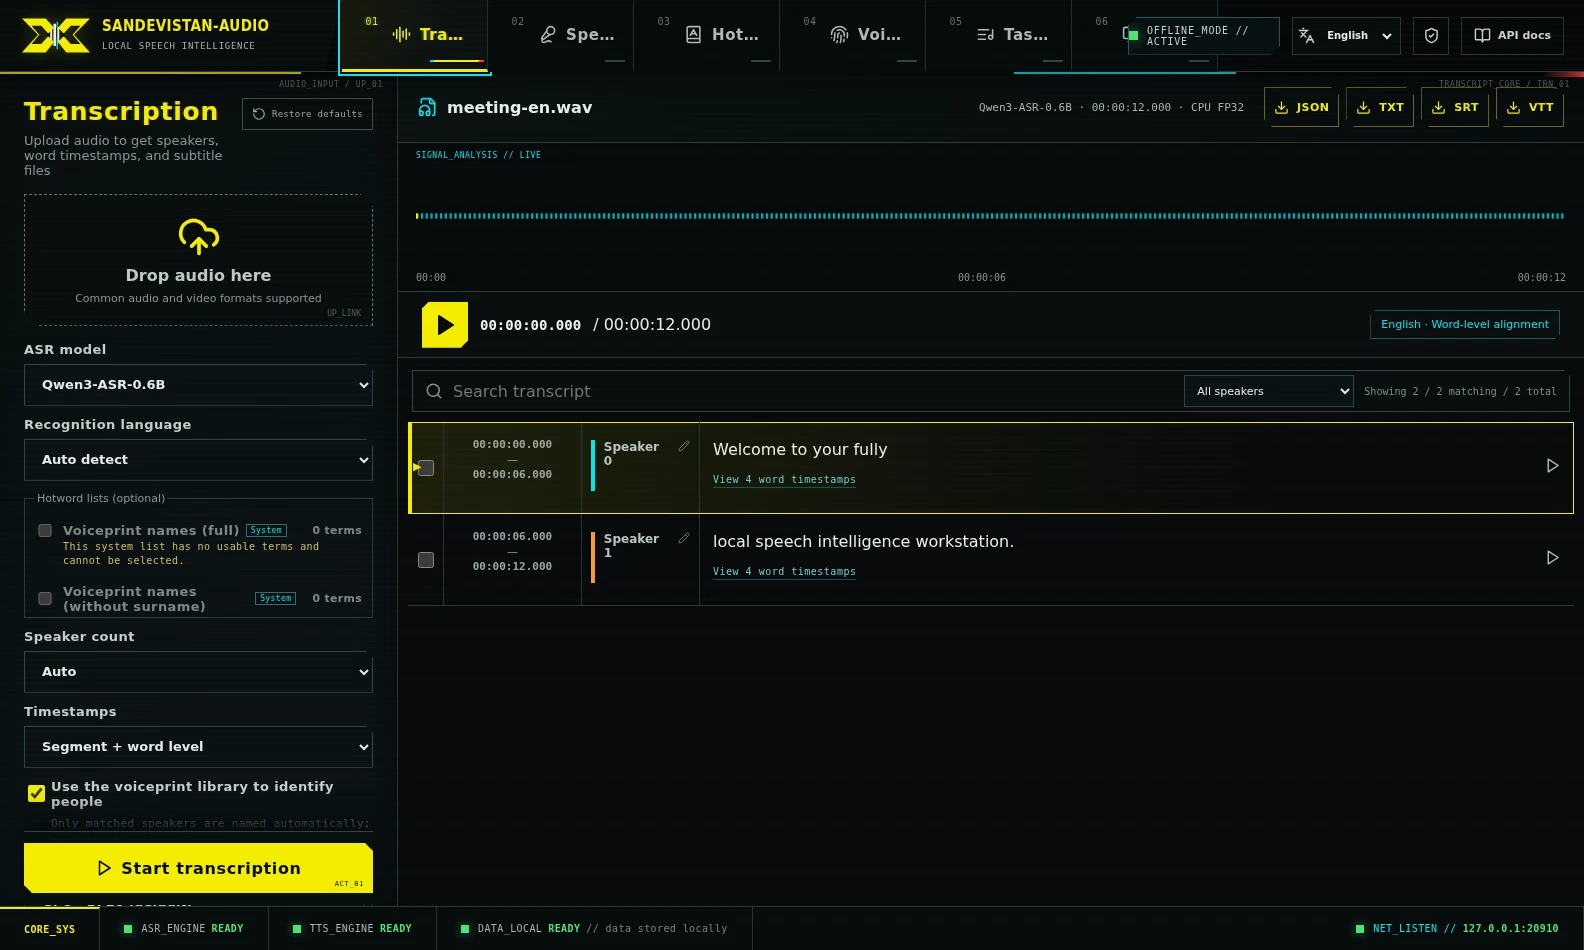
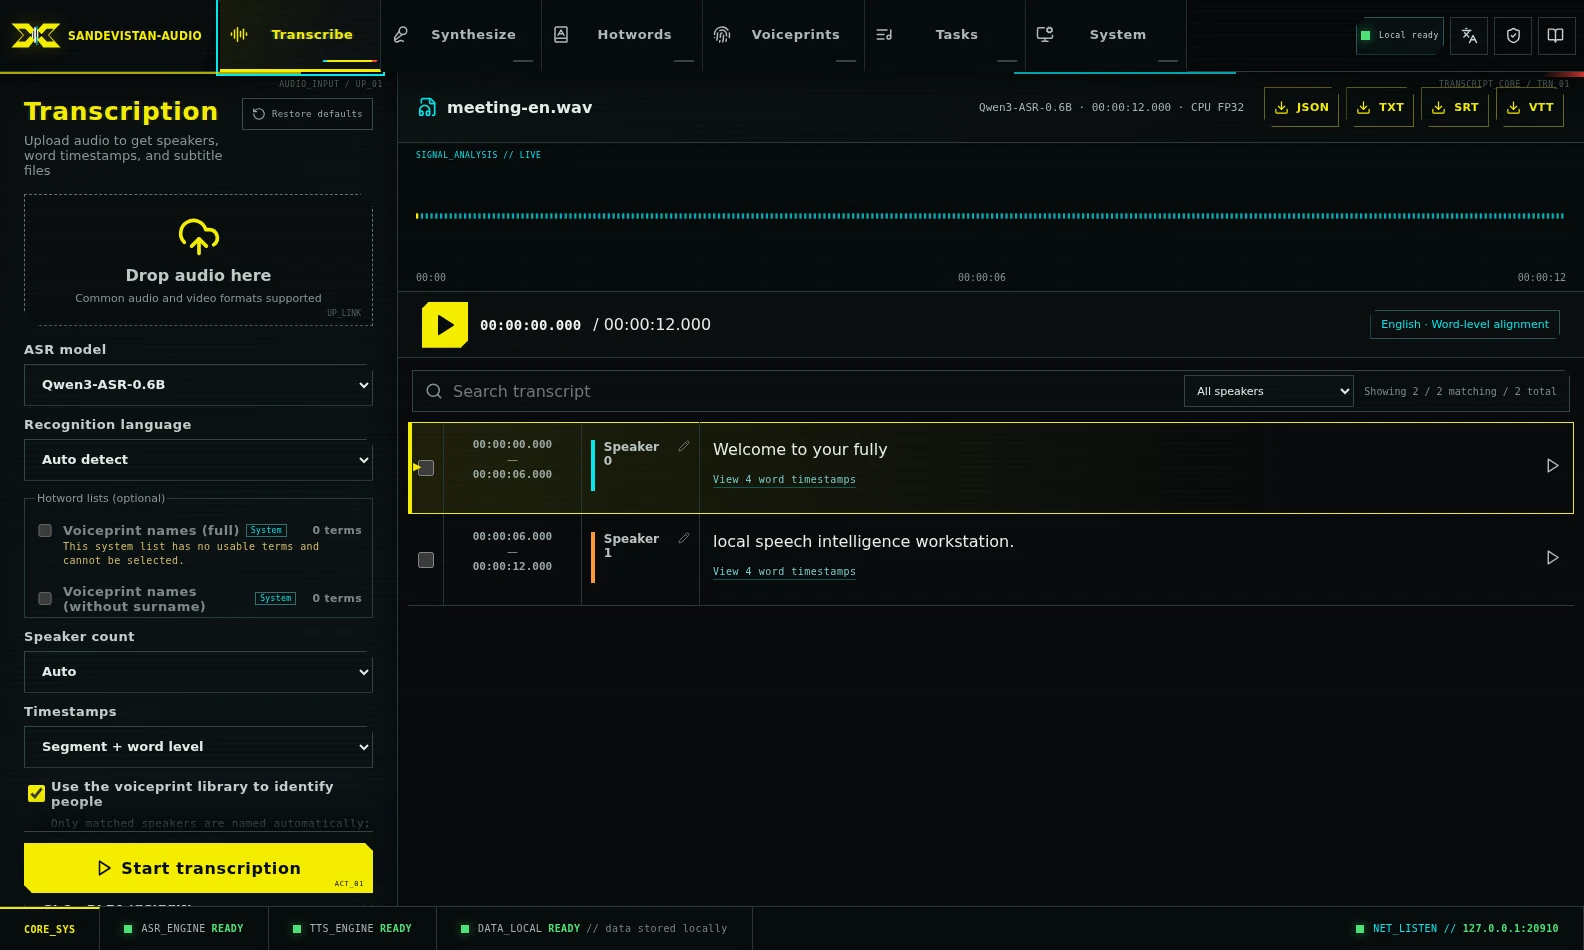
feat(frontend): optimize responsive header navigation

diff --git a/frontend/src/components/AppShell.tsx b/frontend/src/components/AppShell.tsx
@@ -29,5 +29,5 @@ export function AppShell({page,setPage,children,health,systemError,connectionErr
  const asr=engine('asr'),tts=engine('tts')
  const dataLocal=phase==='checking'?{tone:'checking' as const,value:'CHECKING'}:phase==='error'?{tone:'error' as const,value:'UNKNOWN'}:health?.offline&&health.storage.data?{tone:'ready' as const,value:'READY'}:{tone:'warning' as const,value:'UNVERIFIED'}
  const bind=phase==='checking'?{tone:'checking' as const,value:'CHECKING'}:phase==='error'?{tone:'error' as const,value:'UNKNOWN'}:{tone:'ready' as const,value:health?.bind||'UNKNOWN'}
- return <div className="app-shell" data-page={page}><a className="skip-link" href="#main-content">{t('shell.skipToMain')}</a><header><button className="brand" aria-label={t('shell.returnToAsr')} onClick={()=>setPage('asr')}><BrandMark/></button><nav aria-label={t('shell.mainNavigation')}>{items.map(([id,index,Icon])=>{const label=t(`shell.pages.${id}.full`);return <button key={id} className={page===id?'active':''} aria-label={label} aria-current={page===id?'page':undefined} onClick={()=>setPage(id)}><span className="nav-index">{index}</span><Icon size={19}/><span className="nav-label"><span className="nav-label-full">{label}</span><span className="nav-label-short" aria-hidden="true">{t(`shell.pages.${id}.short`)}</span></span></button>})}</nav><div className="head-actions"><span className="local-mode" data-state={mode.tone} aria-live="polite" aria-label={mode.label} title={t('shell.offline.scopeHint',{label:mode.label})}><i aria-hidden="true"/><span className="full-label">{mode.full}</span><span className="compact-label" aria-hidden="true">{mode.compact}</span></span>{authRequired?<button className="logout" onClick={onLogout} title={t('shell.logout')} aria-label={t('shell.logout')}><LogOut/></button>:null}<LanguageSwitcher/><button className="cert-help-button" onClick={()=>setShowTlsHelp(true)} title={t('shell.certificate')} aria-label={t('shell.openCertificateHelp')}><ShieldCheck size={17}/></button><a className="global-docs-link" href="/docs" target="_blank" rel="noreferrer" title={t('shell.apiDocs')} aria-label={t('shell.openApiDocs')}><BookOpen size={17}/><span className="full-label">{t('shell.apiDocs')}</span><span className="compact-label" aria-hidden="true">{t('shell.docsCompact')}</span></a></div></header><main id="main-content" ref={mainRef} tabIndex={-1}>{connectionError?<div className="connection-banner" role="alert"><span>{t('shell.connectionError',{message:connectionError})}</span>{onRetry?<button type="button" onClick={onRetry}>{t('shell.reconnect')}</button>:null}</div>:null}{children}</main><footer><span className="footer-id">CORE_SYS</span><FooterStatus label="ASR_ENGINE" value={asr.value} tone={asr.tone}/><FooterStatus label="TTS_ENGINE" value={tts.value} tone={tts.tone}/><FooterStatus className="local-copy" label="DATA_LOCAL" value={dataLocal.value} tone={dataLocal.tone} detail={dataLocal.value==='READY'?t('shell.dataStoredLocally'):undefined} title={t('shell.dataReadyHint')}/><FooterStatus className="bind" label="NET_LISTEN //" value={bind.value} tone={bind.tone} title={phase==='ready'?t('shell.bindReadyHint',{bind:bind.value}):t('shell.bindUnknownHint')}/></footer>{showTlsHelp?<TlsCertificateModal onClose={()=>setShowTlsHelp(false)}/>:null}</div>
+ return <div className="app-shell" data-page={page}><a className="skip-link" href="#main-content">{t('shell.skipToMain')}</a><header><button className="brand" aria-label={t('shell.returnToAsr')} onClick={()=>setPage('asr')}><BrandMark/></button><nav aria-label={t('shell.mainNavigation')}>{items.map(([id,index,Icon])=>{const label=t(`shell.pages.${id}.full`);return <button key={id} className={page===id?'active':''} aria-label={label} title={label} aria-current={page===id?'page':undefined} onClick={()=>setPage(id)}><span className="nav-index">{index}</span><Icon size={19}/><span className="nav-label"><span className="nav-label-full">{label}</span><span className="nav-label-medium" aria-hidden="true">{t(`shell.pages.${id}.medium`)}</span><span className="nav-label-short" aria-hidden="true">{t(`shell.pages.${id}.short`)}</span></span></button>})}</nav><div className="head-actions"><span className="local-mode" data-state={mode.tone} aria-live="polite" aria-label={mode.label} title={t('shell.offline.scopeHint',{label:mode.label})}><i aria-hidden="true"/><span className="full-label">{mode.full}</span><span className="compact-label" aria-hidden="true">{mode.compact}</span></span>{authRequired?<button className="logout" onClick={onLogout} title={t('shell.logout')} aria-label={t('shell.logout')}><LogOut/></button>:null}<LanguageSwitcher/><button className="cert-help-button" onClick={()=>setShowTlsHelp(true)} title={t('shell.certificate')} aria-label={t('shell.openCertificateHelp')}><ShieldCheck size={17}/></button><a className="global-docs-link" href="/docs" target="_blank" rel="noreferrer" title={t('shell.apiDocs')} aria-label={t('shell.openApiDocs')}><BookOpen size={17}/><span className="full-label">{t('shell.apiDocs')}</span><span className="compact-label" aria-hidden="true">{t('shell.docsCompact')}</span></a></div></header><main id="main-content" ref={mainRef} tabIndex={-1}>{connectionError?<div className="connection-banner" role="alert"><span>{t('shell.connectionError',{message:connectionError})}</span>{onRetry?<button type="button" onClick={onRetry}>{t('shell.reconnect')}</button>:null}</div>:null}{children}</main><footer><span className="footer-id">CORE_SYS</span><FooterStatus label="ASR_ENGINE" value={asr.value} tone={asr.tone}/><FooterStatus label="TTS_ENGINE" value={tts.value} tone={tts.tone}/><FooterStatus className="local-copy" label="DATA_LOCAL" value={dataLocal.value} tone={dataLocal.tone} detail={dataLocal.value==='READY'?t('shell.dataStoredLocally'):undefined} title={t('shell.dataReadyHint')}/><FooterStatus className="bind" label="NET_LISTEN //" value={bind.value} tone={bind.tone} title={phase==='ready'?t('shell.bindReadyHint',{bind:bind.value}):t('shell.bindUnknownHint')}/></footer>{showTlsHelp?<TlsCertificateModal onClose={()=>setShowTlsHelp(false)}/>:null}</div>
 }

diff --git a/frontend/e2e/i18n.spec.ts b/frontend/e2e/i18n.spec.ts
@@ -1,6 +1,38 @@
-import {expect,test} from '@playwright/test'
+import {expect,test,type Page} from '@playwright/test'
 
 test.use({locale:'en-US'})
+
+async function expectNavigationLayout(page:Page,width:number,labels:string[],mode:'full'|'medium'|'short',stacked=false){
+ await page.setViewportSize({width,height:900})
+ const navigation=page.getByRole('navigation',{name:'Main navigation'})
+ const visibleLabels=navigation.locator(`.nav-label-${mode}`)
+ await expect(visibleLabels).toHaveText(labels)
+ await expect(visibleLabels.first()).toBeVisible()
+ const metrics=await navigation.locator('.nav-label').evaluateAll(elements=>elements.map(element=>{
+  const visible=[...element.children].find(child=>getComputedStyle(child).display!=='none')
+  return {text:visible?.textContent||'',clientWidth:element.clientWidth,scrollWidth:element.scrollWidth}
+ }))
+ expect(metrics.map(metric=>metric.text)).toEqual(labels)
+ for(const metric of metrics)expect(metric.scrollWidth).toBeLessThanOrEqual(metric.clientWidth+1)
+ expect(await page.evaluate(()=>document.documentElement.scrollWidth)).toBeLessThanOrEqual(width)
+ for(const button of await navigation.getByRole('button').all()){
+  const box=await button.boundingBox()
+  expect(box!.x).toBeGreaterThanOrEqual(0)
+  expect(box!.x+box!.width).toBeLessThanOrEqual(width+1)
+ }
+ const slots=await navigation.evaluate(element=>{
+  const navigationBox=element.getBoundingClientRect()
+  const buttons=[...element.querySelectorAll('button')]
+  const firstBox=buttons[0].getBoundingClientRect()
+  const lastBox=buttons.at(-1)!.getBoundingClientRect()
+  return {columns:getComputedStyle(element).gridTemplateColumns.split(' ').length,tabWidth:firstBox.width,reservedWidth:navigationBox.right-lastBox.right}
+ })
+ expect(slots.columns).toBe(width>900?7:6)
+ expect(Math.abs(slots.reservedWidth-(width>900?slots.tabWidth:0))).toBeLessThanOrEqual(1)
+ const firstButton=navigation.getByRole('button').first()
+ expect(await firstButton.evaluate(element=>getComputedStyle(element).display)).toBe(stacked?'flex':'grid')
+ if(stacked)expect(await firstButton.evaluate(element=>getComputedStyle(element).flexDirection)).toBe('column')
+}
 
 test('detects, switches, and persists the interface language without reloading protected data',async({page})=>{
  const errors:string[]=[]
@@ -27,10 +59,32 @@ test('detects, switches, and persists the interface language without reloading p
  await page.goto('/#tts')
  await expect(page.locator('html')).toHaveAttribute('lang','en-US')
  await expect(page.getByRole('heading',{name:'Speech synthesis'})).toBeVisible()
+ const fullLabels=['Transcription','Speech synthesis','Hotword library','Voiceprint library','Task history','System status']
+ const mediumLabels=['Transcribe','Synthesize','Hotwords','Voiceprints','Tasks','System']
+ await expectNavigationLayout(page,1920,fullLabels,'full')
+ await expectNavigationLayout(page,2200,fullLabels,'full')
+ await expectNavigationLayout(page,2400,fullLabels,'full')
+ await expectNavigationLayout(page,1919,mediumLabels,'medium')
+ await expectNavigationLayout(page,1760,mediumLabels,'medium')
+ await expectNavigationLayout(page,1470,mediumLabels,'medium')
+ await page.screenshot({path:'/tmp/audio-intel-i18n-header-1470.png',fullPage:false})
+ await expectNavigationLayout(page,1280,mediumLabels,'medium',true)
+ await page.screenshot({path:'/tmp/audio-intel-i18n-header-1280.png',fullPage:false})
+ await page.setViewportSize({width:1440,height:900})
+ const desktopSwitcher=page.locator('.language-switcher.header')
+ expect((await desktopSwitcher.boundingBox())!.width).toBe(38)
+ const desktopSelect=page.getByRole('combobox',{name:'Interface language'})
+ expect(await desktopSelect.evaluate(element=>getComputedStyle(element).opacity)).toBe('0')
+ await desktopSelect.focus()
+ expect(await desktopSwitcher.evaluate(element=>getComputedStyle(element).outlineStyle)).toBe('solid')
+ const desktopDocs=page.getByRole('link',{name:'Open API documentation'})
+ expect((await desktopDocs.boundingBox())!.width).toBe(38)
+ await expect(desktopDocs.locator('.full-label')).toBeHidden()
+ await expect(desktopDocs.locator('.compact-label')).toBeHidden()
  const editor=page.locator('.text-editor textarea')
  await editor.fill('Keep this draft while switching languages')
  const requestCount=protectedRequests.length
- await page.getByRole('combobox',{name:'Interface language'}).selectOption('zh-CN')
+ await desktopSelect.selectOption('zh-CN')
  await expect(page.locator('html')).toHaveAttribute('lang','zh-CN')
  await expect(page.getByRole('heading',{name:'语音合成'})).toBeVisible()
  await expect(editor).toHaveValue('Keep this draft while switching languages')
@@ -42,6 +96,7 @@ test('detects, switches, and persists the interface language without reloading p
  await page.getByRole('combobox',{name:'界面语言'}).selectOption('en-US')
  await expect(page.getByRole('heading',{name:'Speech synthesis'})).toBeVisible()
  await page.setViewportSize({width:390,height:844})
+ await expectNavigationLayout(page,390,['ASR','TTS','Hotwords','Voices','Tasks','System'],'short',true)
  expect(await page.evaluate(()=>document.documentElement.scrollWidth)).toBeLessThanOrEqual(390)
  const switcher=page.getByRole('combobox',{name:'Interface language'})
  await expect(switcher).toBeVisible()

diff --git a/frontend/src/styles.css b/frontend/src/styles.css
@@ -40,7 +40,7 @@ button:active{transform:translateY(1px)}
 .app-shell>header>nav button.active::after{width:45px;background:var(--yellow);box-shadow:5px 0 var(--red),-4px 0 var(--cyan)}
 .nav-index{font:10px ui-monospace,SFMono-Regular,Consolas,monospace;color:#667372;align-self:start;margin-top:16px}
 .app-shell>header>nav button.active .nav-index{color:var(--yellow)}
-.nav-label{min-width:0;overflow:hidden;text-overflow:ellipsis}.nav-label-short{display:none}
+.nav-label{min-width:0;overflow:hidden;text-overflow:ellipsis}.nav-label-medium,.nav-label-short{display:none}
 .head-actions{margin-left:auto;display:flex;align-items:center;padding:0 20px 0 12px;gap:12px}
 .local-mode{height:38px;min-width:150px;display:flex;align-items:center;justify-content:center;gap:9px;border:1px solid #25565a;color:#c6cfcb;background:#071012;clip-path:polygon(9px 0,100% 0,100% calc(100% - 9px),calc(100% - 9px) 100%,0 100%,0 9px);font:10px ui-monospace,SFMono-Regular,Consolas,monospace;letter-spacing:.08em}
 .local-mode i{width:9px;height:9px;background:#4b5554;box-shadow:none;flex:0 0 auto}.local-mode .compact-label{display:none}
@@ -352,15 +352,30 @@ select:focus{border-color:var(--cyan)}
  .table-head,.table-row{grid-template-columns:28px minmax(180px,1.5fr) 58px 86px 138px 82px minmax(105px,1fr) 100px;gap:7px;padding:0 10px}
 }
 
-@media(min-width:901px) and (max-width:1519px){
+@media(min-width:901px){
+ .app-shell>header>nav{flex:1;display:grid;grid-template-columns:repeat(7,minmax(0,1fr))}.app-shell>header>nav button{min-width:0;font-size:13px}.app-shell>header>nav button svg{width:18px}
+ .language-switcher.header{position:relative;width:38px;padding:0;justify-content:center}.language-switcher.header select{position:absolute;inset:0;width:100%;height:100%;opacity:0;cursor:pointer}.language-switcher.header:focus-within{outline:2px solid var(--cyan);outline-offset:2px}
+ .head-actions .global-docs-link{width:38px;padding:8px}.global-docs-link .full-label,.global-docs-link .compact-label{display:none}
+}
+
+@media(min-width:901px) and (max-width:2399px){
  .brand{width:220px;flex-basis:220px;padding-left:10px}.brand-lockup{gap:6px}.brand-lockup img{width:52px}.brand-type b{font-size:12px}.brand-type small{display:none}
- .app-shell>header>nav{flex:1}.app-shell>header>nav button{flex:1 1 0;min-width:0;grid-template-columns:18px 18px minmax(0,1fr);gap:5px;padding:0 7px;font-size:13px}.app-shell>header>nav button svg{width:18px}
+ .app-shell>header>nav button{grid-template-columns:18px minmax(0,1fr);gap:7px;padding:0 10px}.app-shell>header>nav .nav-index{display:none}
  .head-actions{flex:none;gap:6px;padding:0 8px}.local-mode{width:88px;min-width:88px;font-size:8px}.local-mode .full-label{display:none}.local-mode .compact-label{display:inline}
+}
+
+@media(min-width:901px) and (max-width:1919px){.nav-label-full{display:none}.nav-label-medium{display:inline}}
+
+@media(min-width:901px) and (max-width:1399px){
+ .brand{width:64px;flex-basis:64px;padding:0 6px}.brand-lockup img{width:51px}.brand-type{display:none}
+ .app-shell>header>nav button{display:flex;flex-direction:column;justify-content:center;gap:3px;padding:5px 3px;font-size:11px}
+ .local-mode{width:20px;min-width:20px;border:0;background:transparent;clip-path:none}.local-mode .compact-label{display:none}
+}
+
+@media(min-width:901px) and (max-width:1519px){
  .app-shell>footer>span{padding:0 12px}.app-shell>footer .local-copy .status-detail{display:none}
  .tts-grid{grid-template-columns:minmax(0,1fr) minmax(340px,400px)}.tts-editor{padding-left:28px;padding-right:28px}
 }
-
-@media(min-width:901px) and (max-width:1180px){.global-docs-link .full-label{display:none}.global-docs-link .compact-label{display:inline}.app-shell>header>nav button{grid-template-columns:18px minmax(0,1fr)}.app-shell>header>nav .nav-index{display:none}}
 
 @media(max-width:900px){
  body{overflow:auto}.app-shell{height:auto;min-height:100vh;display:block;overflow:visible;padding-bottom:68px}.app-shell::after{inset:64px 0 68px}

diff --git a/frontend/e2e/app.spec.ts b/frontend/e2e/app.spec.ts
@@ -1043,6 +1043,18 @@ test('API key login and logout use an ephemeral browser session',async({page})=>
  await page.screenshot({path:'/tmp/audio-intel-authenticated-system.png',fullPage:false})
  expect(submittedAuthorization).toBe('Bearer browser-secret')
  expect(await page.evaluate(()=>({stored:sessionStorage.getItem('audio-intel:key'),url:location.href}))).toEqual({stored:null,url:expect.not.stringContaining('browser-secret')})
+ await page.setViewportSize({width:1024,height:820})
+ await expect(page.getByRole('button',{name:'退出本地会话'})).toBeVisible()
+ const authenticatedNavigation=page.getByRole('navigation',{name:'主导航'})
+ await expect(authenticatedNavigation.locator('.nav-label-medium')).toHaveText(['转写','合成','热词','声纹','任务','系统'])
+ const authenticatedSlots=await authenticatedNavigation.evaluate(element=>{
+  const navigationBox=element.getBoundingClientRect();const buttons=[...element.querySelectorAll('button')]
+  return {tabWidth:buttons[0].getBoundingClientRect().width,reservedWidth:navigationBox.right-buttons.at(-1)!.getBoundingClientRect().right}
+ })
+ expect(Math.abs(authenticatedSlots.reservedWidth-authenticatedSlots.tabWidth)).toBeLessThanOrEqual(1)
+ expect((await page.locator('.language-switcher.header').boundingBox())!.width).toBe(38)
+ expect((await page.getByRole('link',{name:'打开 API 文档'}).boundingBox())!.width).toBe(38)
+ expect(await page.evaluate(()=>document.documentElement.scrollWidth)).toBeLessThanOrEqual(1024)
  await page.setViewportSize({width:390,height:844})
  await expect(page.locator('.local-mode')).toBeVisible()
  await expect(page.getByRole('link',{name:'打开 API 文档'})).toBeVisible()
